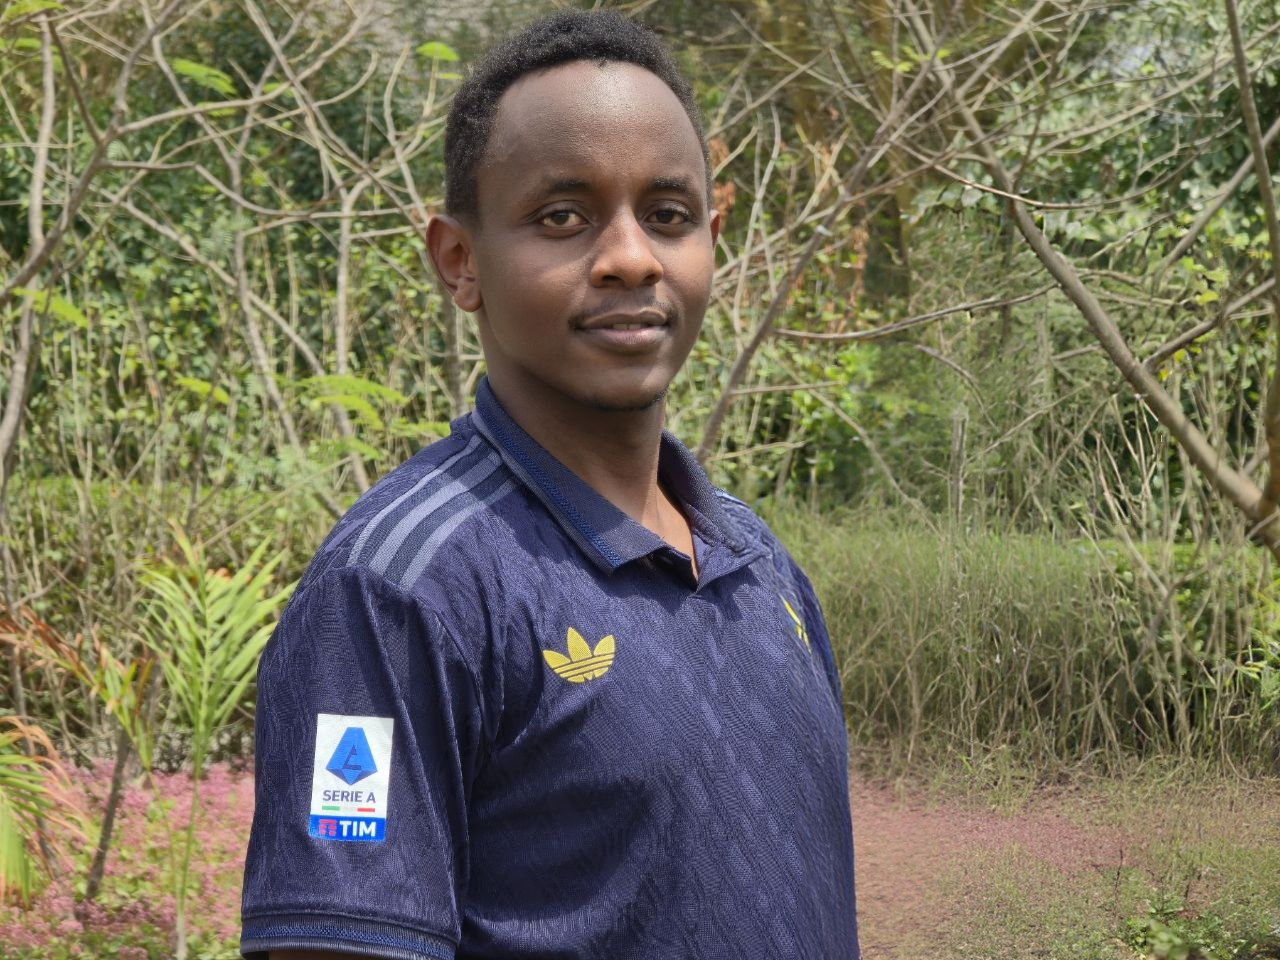
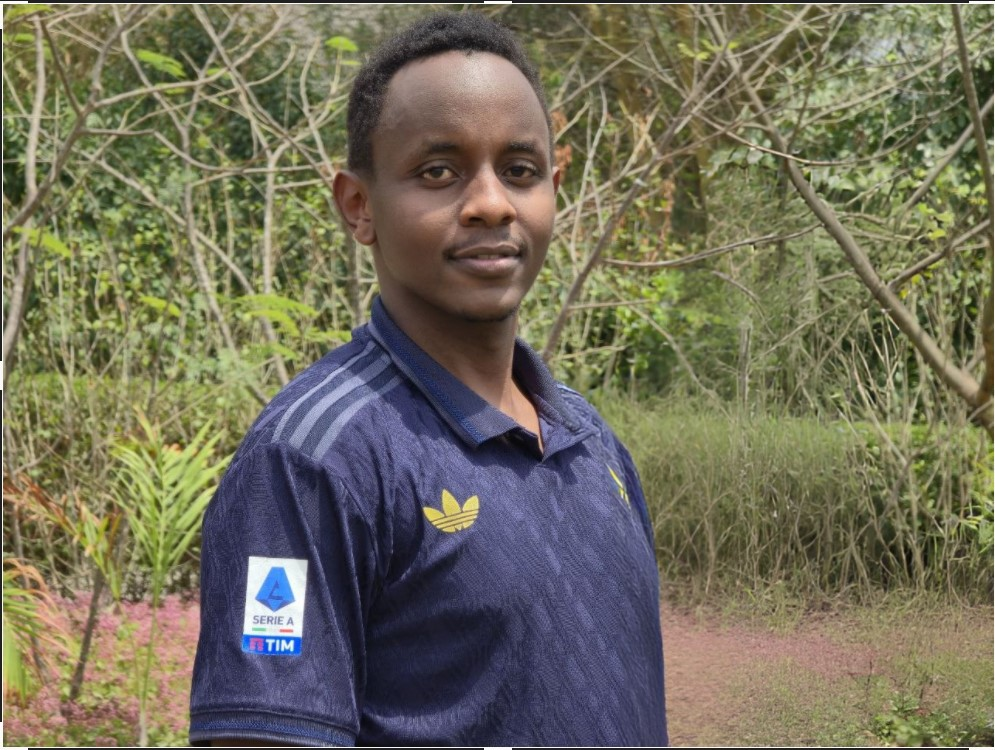
Update image section and fullpage options on homepage

diff --git a/app/(root)/page.jsx b/app/(root)/page.jsx
@@ -25,9 +25,12 @@ const MyPage = () => {
 	const fullpageOptions = {
 		anchors: ["home", "about", "projects", "contact"],
 		scrollingSpeed: 1000,
-		licenseKey: "gplv3-license",
 		menu: "#sidebar",
 		lockAnchors: false,
+		autoScrolling: true,
+		fitToSection: true,
+		scrollBar: false,
+		bigSectionsDestination: "top",
 	};
 
 	return (
@@ -155,10 +158,10 @@ const MyPage = () => {
 						</div>
 						
 						<div className="section">
-							<div className="relative flex flex-col items-center justify-center w-screen gap-4 overflow-hidden md:h-screen">
-								<div className="z-0 mb-48 md:mb-0  md:absolute top-1/4  md:right-[10%] md:-translate-y-16 ">
+						<div className="relative flex flex-col items-center justify-center w-screen h-screen gap-4 overflow-hidden">
+							<div className="z-0 md:mb-0  md:absolute top-1/4  md:right-[10%] md:-translate-y-16 ">
 									<motion.div
-										className="bg-slate-300 rounded-sm h-[400px] md:h-[600px] w-[80vw] md:w-[30vw] grayscale hover:grayscale-0"
+									className="relative bg-slate-300 rounded-sm h-[400px] md:h-[600px] w-[80vw] md:w-[30vw] grayscale hover:grayscale-0"
 										initial={{
 											x: 300,
 											opacity: 0,
@@ -176,15 +179,12 @@ const MyPage = () => {
 											damping: 20,
 										}}>
 										<Image
-											src="/image/Mike.jpg"
-											width={1920}
-											height={2000}
-											quality={100}
-											className="object-cover w-full h-full"
+											src="/image/mike.jpg"
+											layout="fill"
+											className="object-cover"
 											alt="Kuria"
 											placeholder="blur"
 											blurDataURL="/image/placeholder/blur.jpg"
-											priority
 										/>
 									</motion.div>
 								</div>
